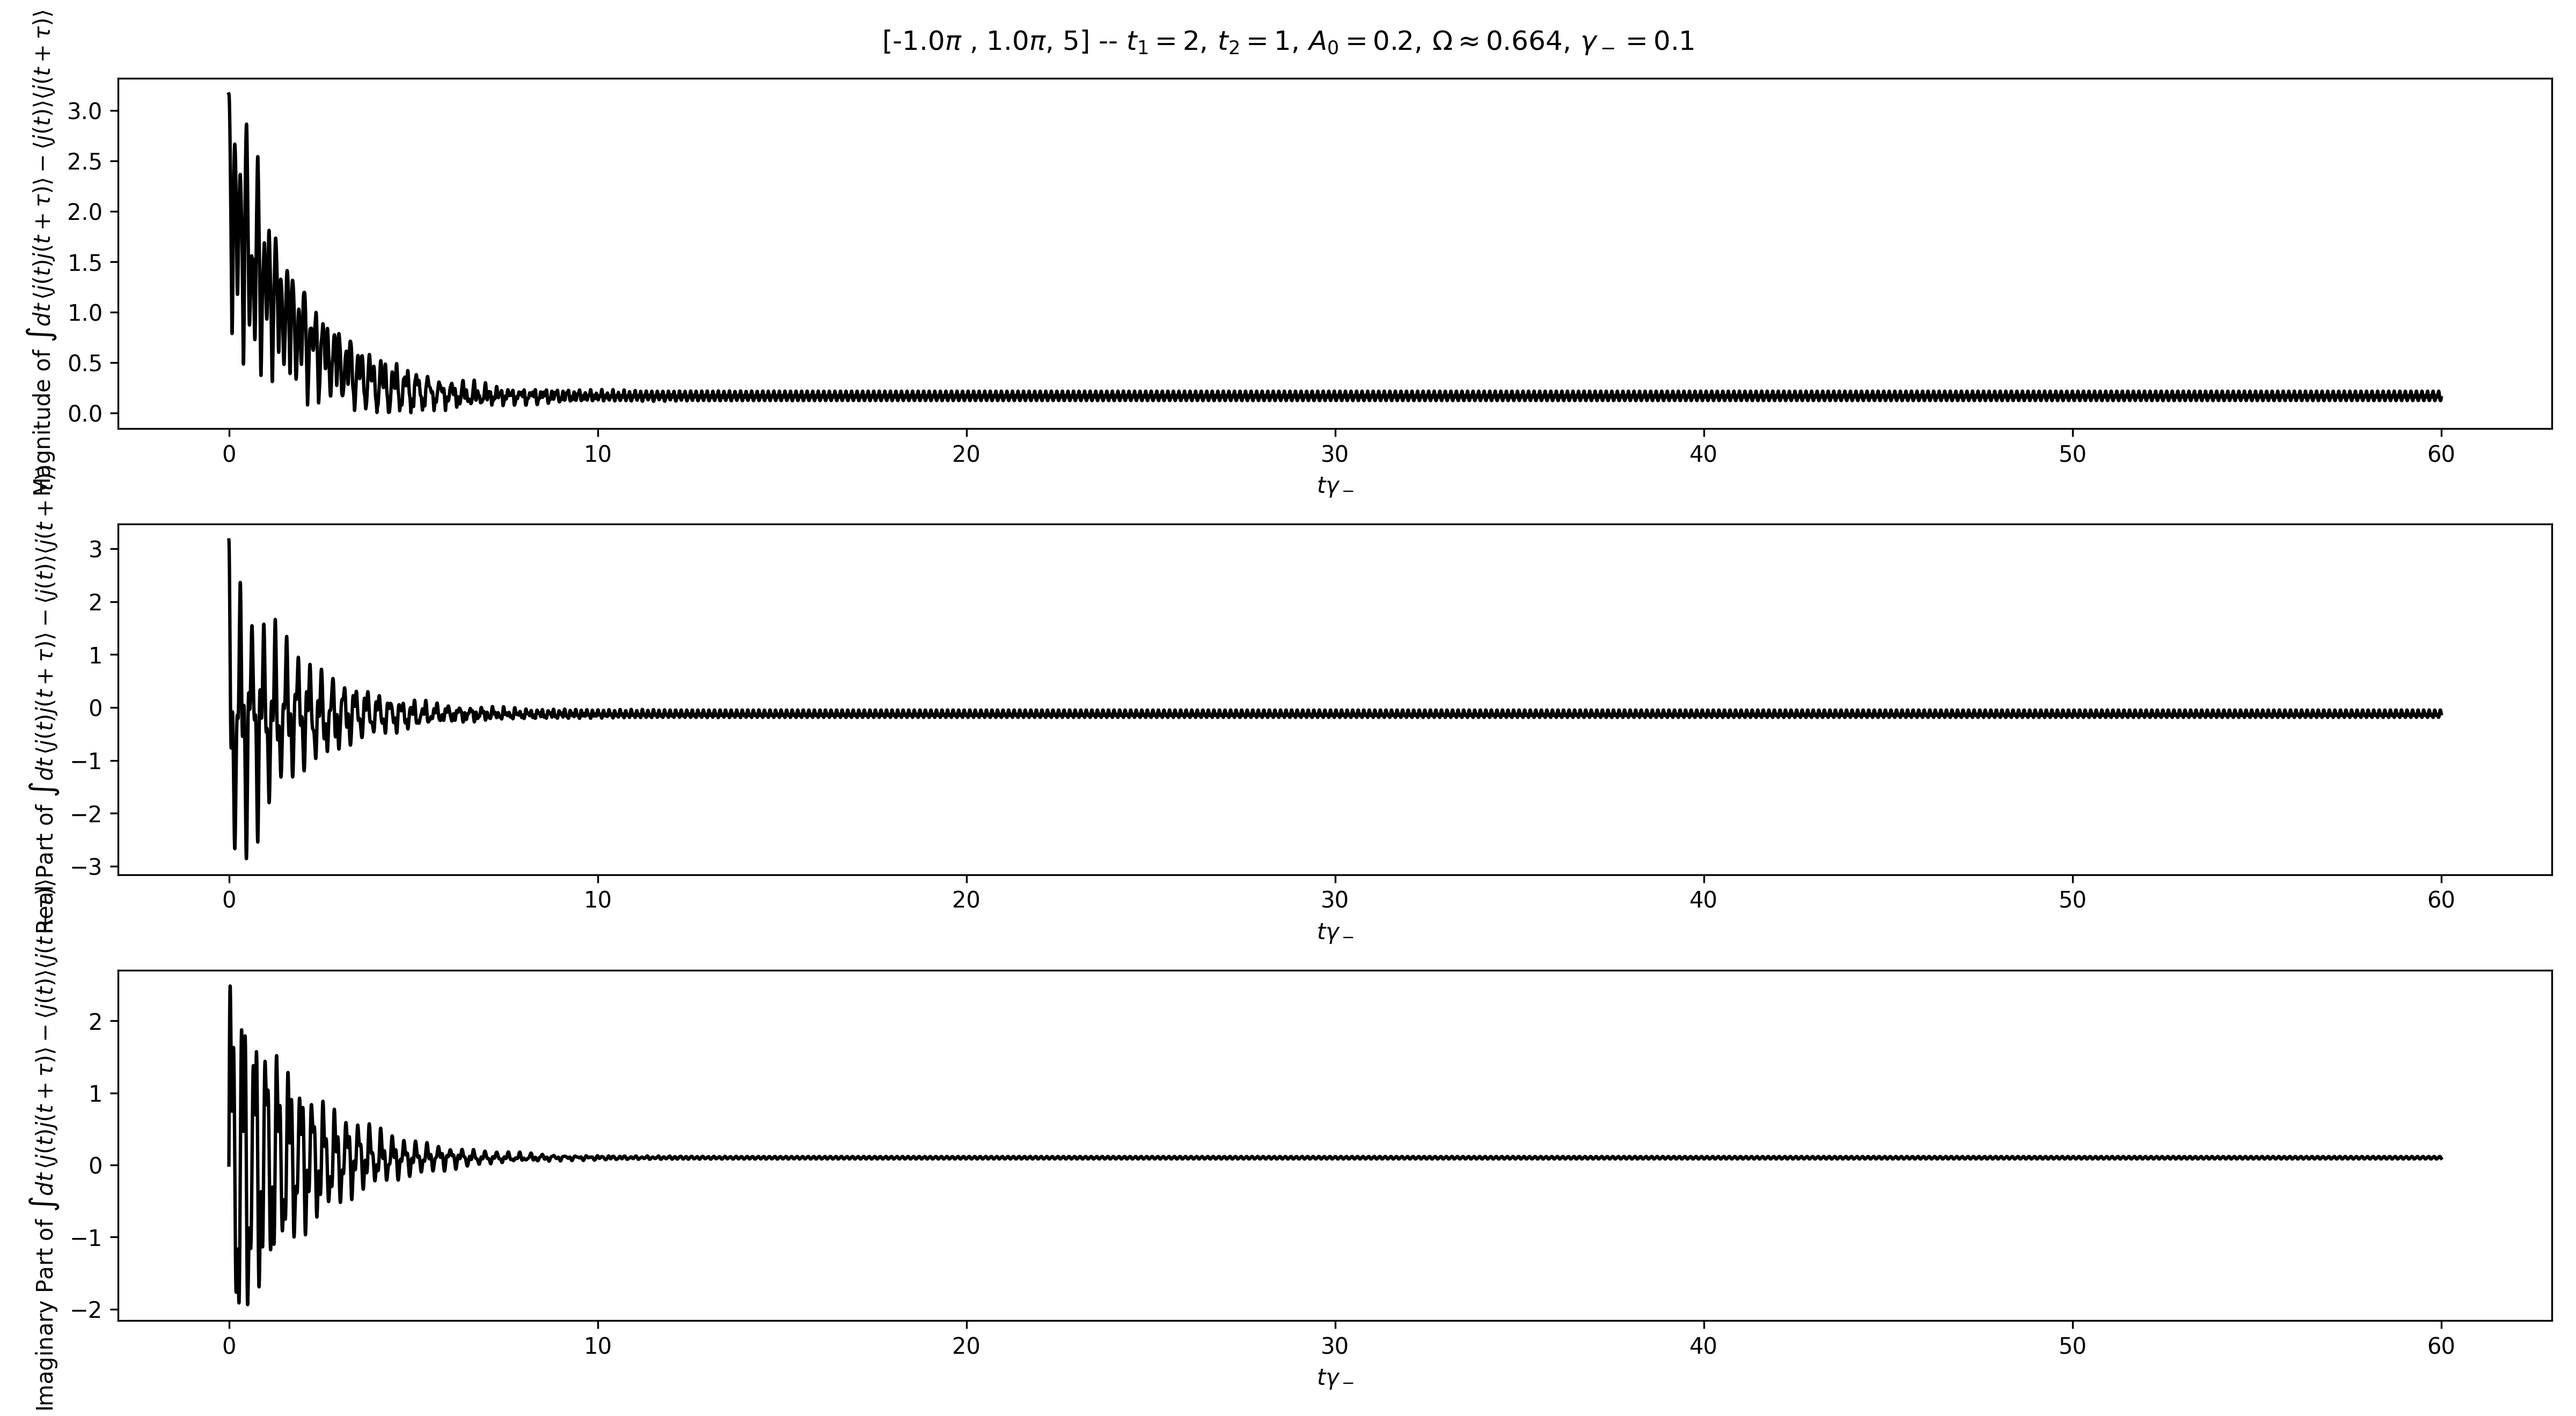
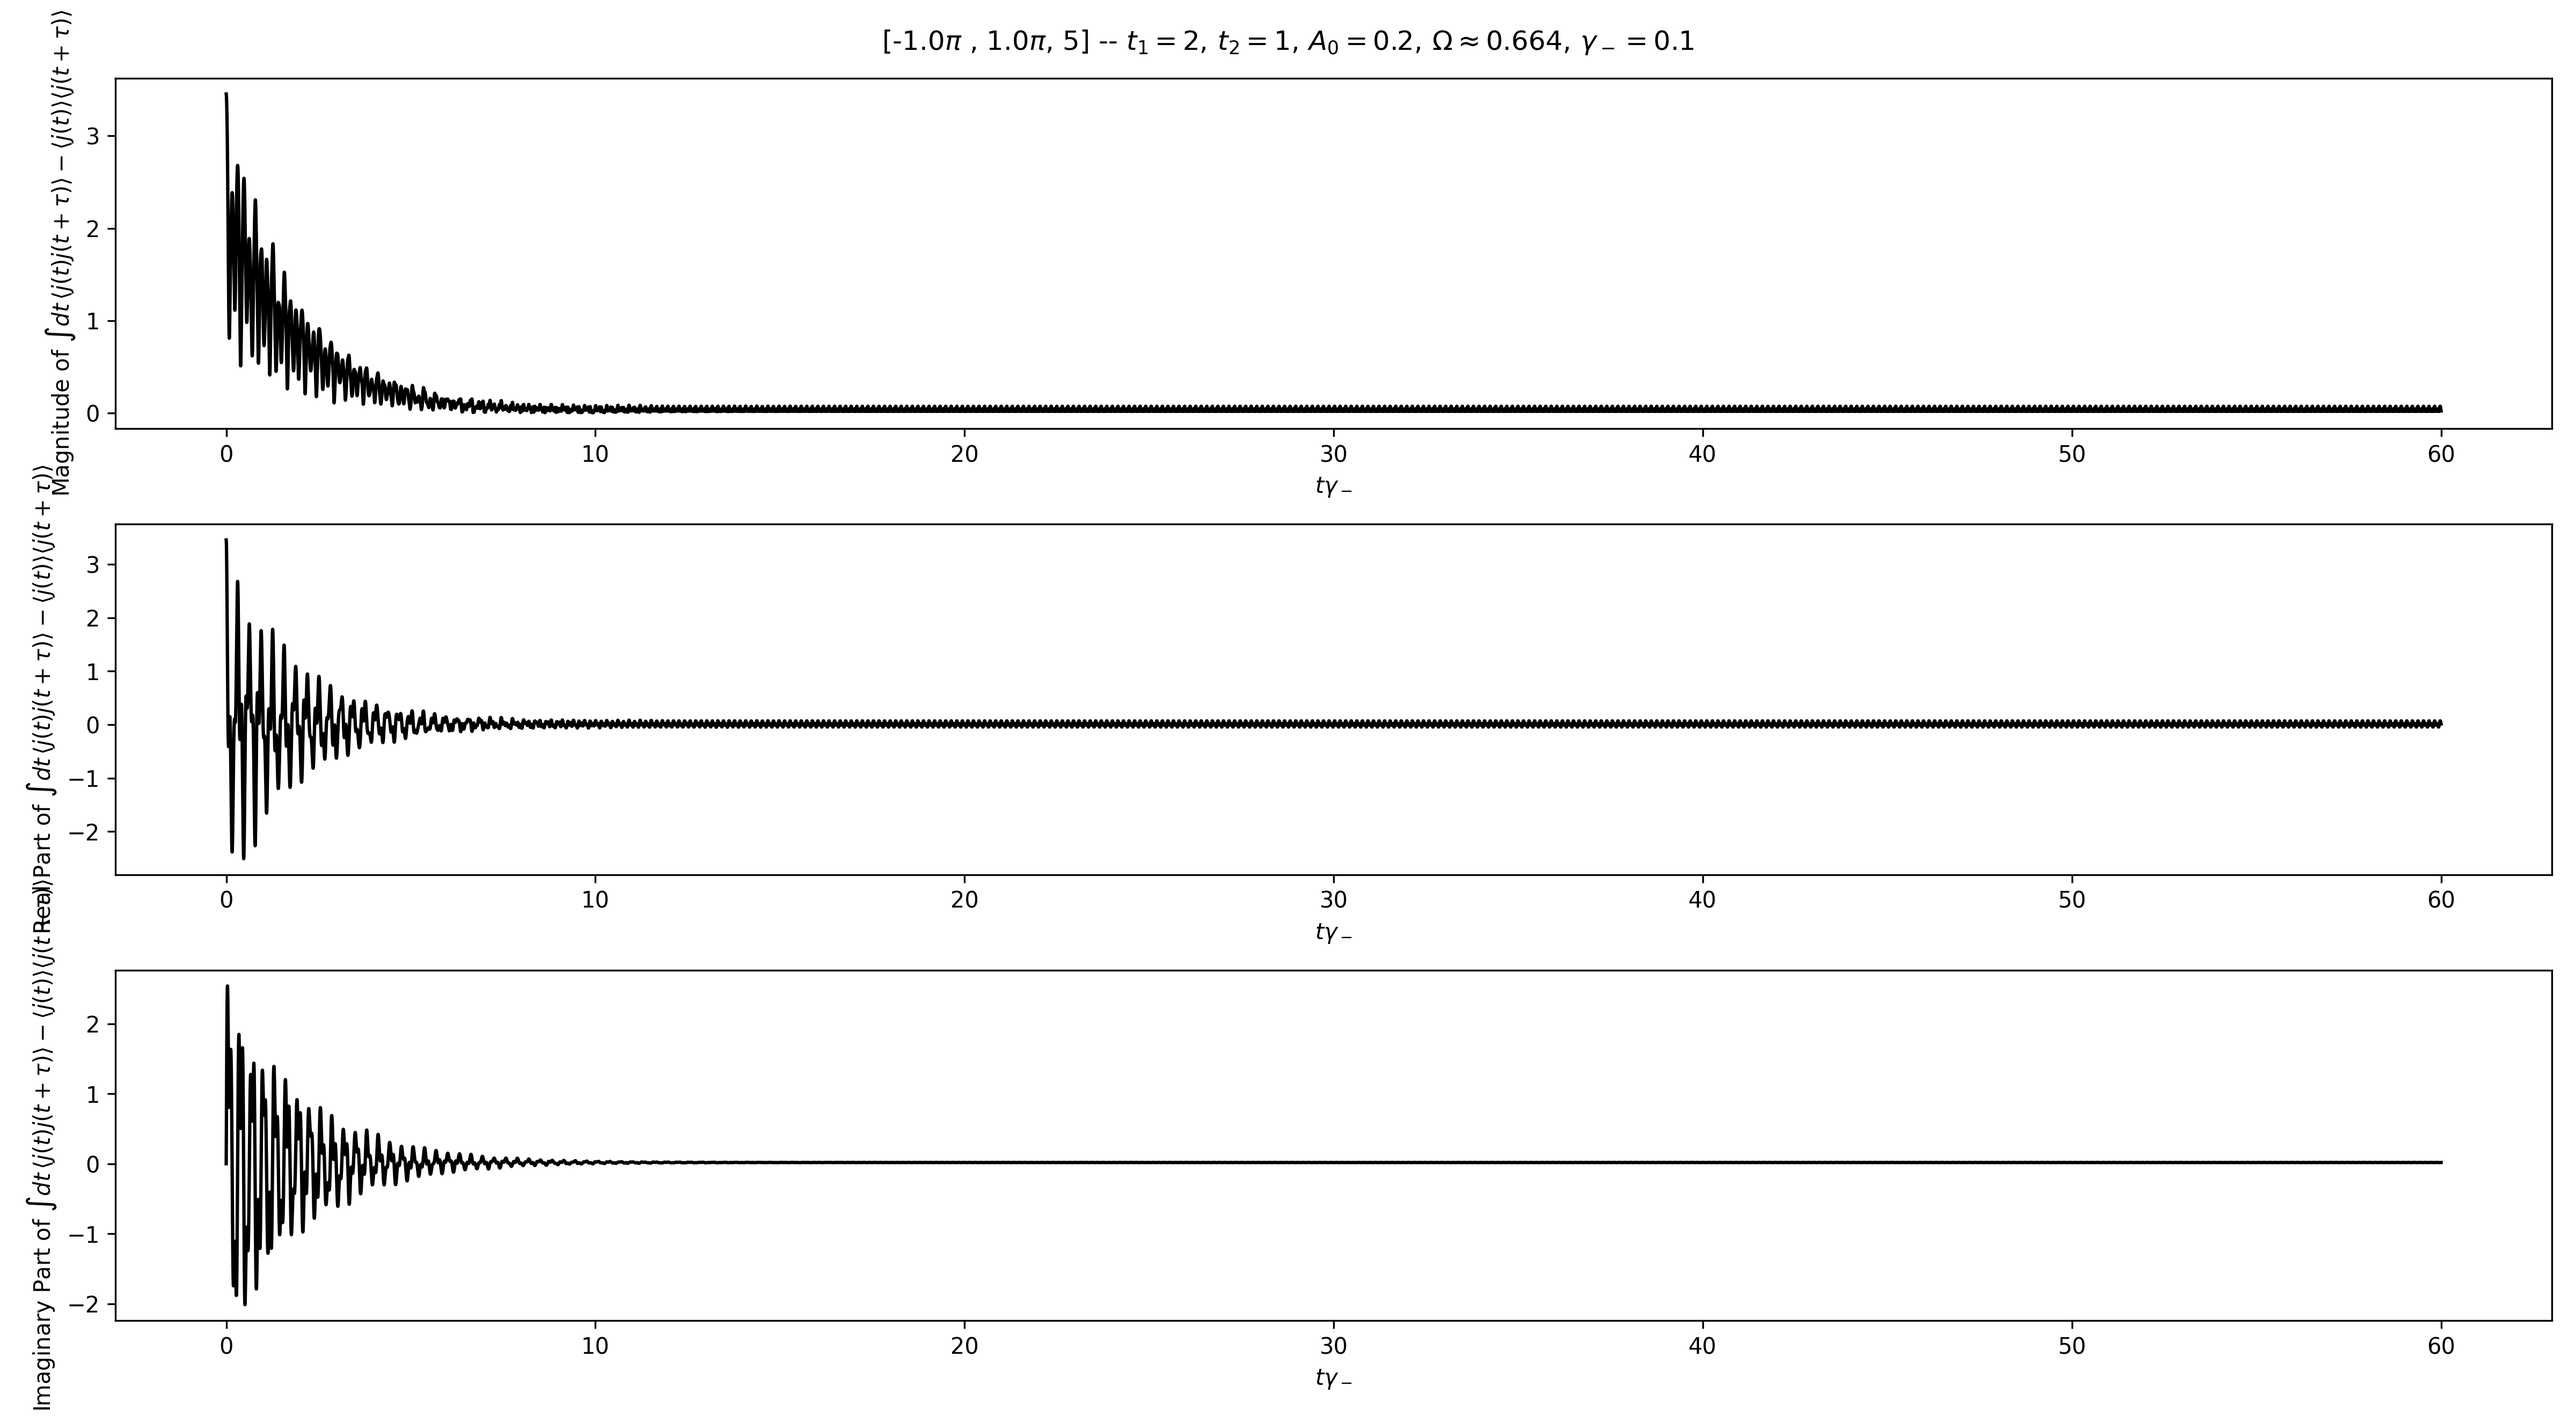
Realised the vZ and vPm fourier coefficients were wrong, fixed that and now the solutions only differ by a phase, such that the magnitude has its sign flipped. But both the real and imag parts (for minus and plus, which actually have imaginary parts) are off by some different phase, which doesn't se

diff --git a/SSHModel/SSH.py b/SSHModel/SSH.py
@@ -135,8 +135,8 @@ class SSH:
 
         self.__correlationData.singleTime = self.__CalculateSingleTimeCorrelations(initialConditions, odeParams)
 
-        plusSeries, minusSeries, zSeries = self.__CalculateSingleTimeFourierSeries()
-        self.__correlationData.singleFourierSeries = [plusSeries, minusSeries, zSeries]
+        minusSeries, plusSeries, zSeries = self.__CalculateSingleTimeFourierSeries()
+        self.__correlationData.singleFourierSeries = [minusSeries, plusSeries, zSeries]
 
         self.__correlationData.doubleTime = self.__CalculateDoubleTimeCorrelations(odeParams)
 
@@ -229,16 +229,16 @@ class SSH:
 
         # Solve the system $\mathcal{M}x = b$ by diagonalising $\mathcal M$.
         eigenvalues, U = np.linalg.eig(V)
-        D_inv = np.diag(1 / eigenvalues)
+        D_inv = np.diag(1.0 / eigenvalues)
         U_inv = np.linalg.inv(U)
         sigmaCoeffs = U @ D_inv @ U_inv @ b
 
         # Extracts the coefficients for each individual Fourier series.
-        plusCoeffs = sigmaCoeffs[0:M]
-        minusCoeffs = sigmaCoeffs[M:2*M]
+        minusCoeffs = sigmaCoeffs[0:M]
+        plusCoeffs = sigmaCoeffs[M:2*M]
         zCoeffs = sigmaCoeffs[2*M:]
 
-        return Fourier(self.__params.drivingFreq, plusCoeffs), Fourier(self.__params.drivingFreq, minusCoeffs), Fourier(self.__params.drivingFreq, zCoeffs)
+        return Fourier(self.__params.drivingFreq, minusCoeffs), Fourier(self.__params.drivingFreq, plusCoeffs), Fourier(self.__params.drivingFreq, zCoeffs)
 
     @SSHProfiler.profile 
     def __CalculateVzFourier(self) -> Fourier:
@@ -258,17 +258,15 @@ class SSH:
         vZCoeffs[self.__params.maxN] = self.__params.t2 * np.cos(theta) * (special.jv(0, self.__params.drivingAmplitude) - 1)
 
         for k in range(1, self.__params.maxN + 1):
-            # Useful terms calculated at beginning.
-            vZTerm = self.__params.t2 * special.jv(k, self.__params.drivingAmplitude)
-
             # Even terms.
             if k % 2 == 0:
-                vZCoeffs[self.__params.maxN + k] = vZCoeffs[self.__params.maxN - k] = vZTerm * np.cos(theta) 
+                vZCoeffs[self.__params.maxN + k] = self.__params.t2 * special.jv(k, self.__params.drivingAmplitude) * np.cos(theta)
+                vZCoeffs[self.__params.maxN - k] = self.__params.t2 * special.jv(-k, self.__params.drivingAmplitude) * np.cos(theta)
 
             # Odd terms.
             else:
-                vZCoeffs[self.__params.maxN + k] = -1j * vZTerm * np.sin(theta)
-                vZCoeffs[self.__params.maxN - k] = -vZCoeffs[self.__params.maxN + k]
+                vZCoeffs[self.__params.maxN + k] = -1j * self.__params.t2 * special.jv(k, self.__params.drivingAmplitude) * np.sin(theta)
+                vZCoeffs[self.__params.maxN - k] = 1j * self.__params.t2 * special.jv(-k, self.__params.drivingAmplitude) * np.sin(theta)
 
         return Fourier(self.__params.drivingFreq, vZCoeffs)
 
@@ -290,17 +288,15 @@ class SSH:
         vPmCoeffs[self.__params.maxN] = 1j * self.__params.t2 * np.sin(theta) * (1 - special.jv(0, self.__params.drivingAmplitude))
 
         for k in range(1, self.__params.maxN + 1):
-            # Useful terms calculated at beginning.
-            vPmTerm = 1j * self.__params.t2 * special.jv(k, self.__params.drivingAmplitude)
-
             # Even terms.
             if k % 2 == 0:
-                vPmCoeffs[self.__params.maxN + k] = vPmCoeffs[self.__params.maxN - k] = -vPmTerm * np.sin(theta)
+                vPmCoeffs[self.__params.maxN + k] = -1j * self.__params.t2 * special.jv(k, self.__params.drivingAmplitude) * np.sin(theta)
+                vPmCoeffs[self.__params.maxN - k] = -1j * self.__params.t2 * special.jv(-k, self.__params.drivingAmplitude) * np.sin(theta)
 
             # Odd terms.
             else:
-                vPmCoeffs[self.__params.maxN + k] = vPmTerm * np.cos(theta)
-                vPmCoeffs[self.__params.maxN - k] = -vPmCoeffs[self.__params.maxN + k]
+                vPmCoeffs[self.__params.maxN + k] = 1j * self.__params.t2 * special.jv(k, self.__params.drivingAmplitude) * np.cos(theta)
+                vPmCoeffs[self.__params.maxN - k] = -1j * self.__params.t2 * special.jv(-k, self.__params.drivingAmplitude) * np.cos(theta)
         
         return Fourier(self.__params.drivingFreq, vPmCoeffs)
 

diff --git a/denis-ssh-model.py b/denis-ssh-model.py
@@ -200,7 +200,7 @@ class One_D_SSH_Model:
         # Used to somehow calculate coefficients of fourier series
         # for sigma operators.
         b = np.zeros(3 * M, dtype=complex)
-        # Sets n = 0 coefficient for sigma_z to -2$\gamma$?
+        # Sets the third fourier series to represent -2$\gamma$.
         b[2 * M + num] -= 2.0 * self.gamma
         eig, U, invU = self.quasi_energy(k)
         # Takes inverse of the diagonal eigenvalue matrix
@@ -315,7 +315,7 @@ class One_D_SSH_Model:
         # Axis along which we are solving.
         time = self.time
         # First dimension is number of points in driving period, the other is number of points
-        # in time axis.
+        # in time axis (tAxis, tauAxis).
         correlation = np.zeros((len(self.time_inf), len(time)), dtype=complex)
         # Gets the values of our single-time expectations (in steady state, since these
         # are calculated using fourier series).

diff --git a/SSHModel/SSHSimulation.py b/SSHModel/SSHSimulation.py
@@ -207,8 +207,10 @@ class SSHSimulation:
             The directory to save the file to.     
         """
 
-        with gzip.open(f"{fileDir}/numK: {self.numModels}, numT: {self.__axes.tAxisDim.size}.pkl.gz", 'wb') as file:
+        fileName = f"{fileDir}/numK: {self.numModels}, numT: {self.__axes.tAxisDim.size}.pkl.gz"
+        with gzip.open(fileName, 'wb') as file:
             pickle.dump(self, file)
+        print(f"Saved instance to {fileName}.")
 
     @classmethod
     def Load(cls, filePath: str) -> SSHSimulation:
@@ -228,6 +230,7 @@ class SSHSimulation:
         
         with gzip.open(filePath, 'rb') as file:
             obj = pickle.load(file)
+        print(f"Loading instance from {filePath}.")
         return obj
     
     def ExtractModels(self, kArr: float | list[float] | np.ndarray[float]) -> SSHSimulation:
